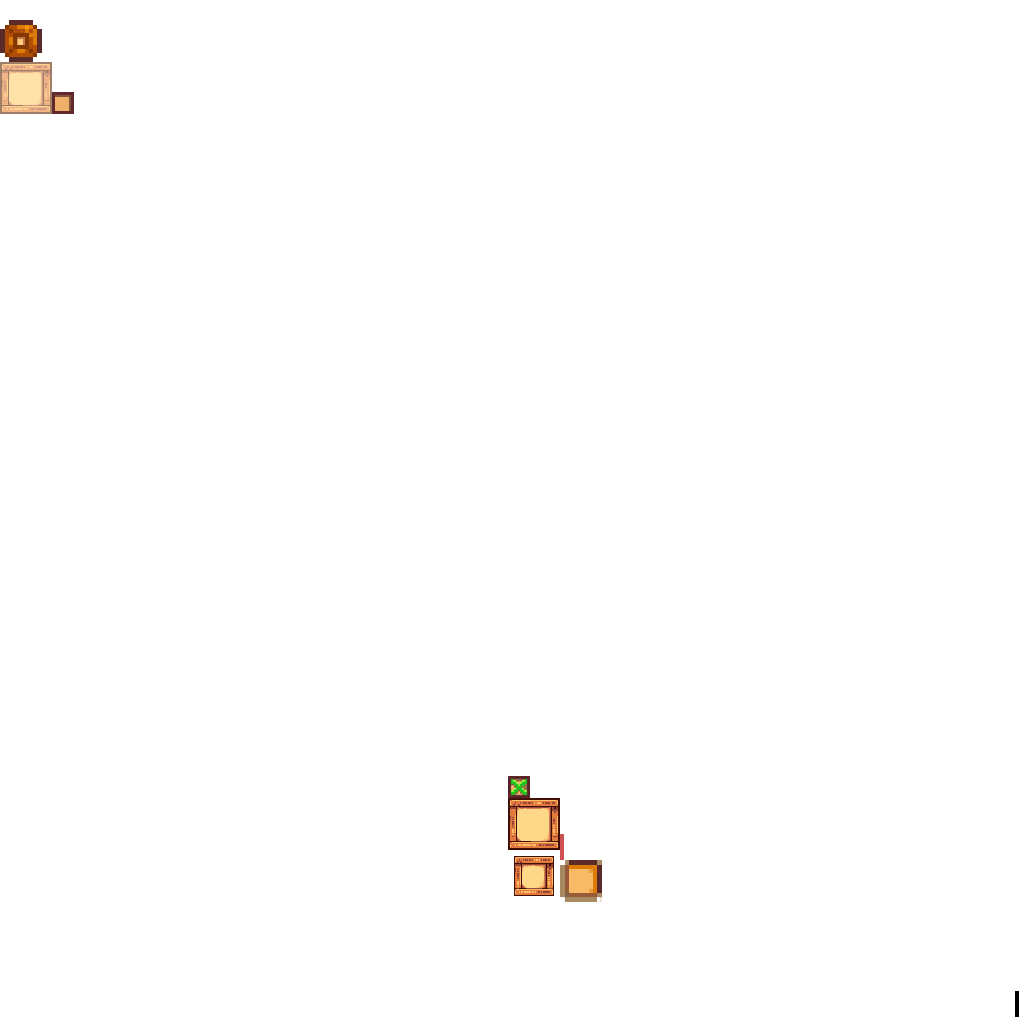
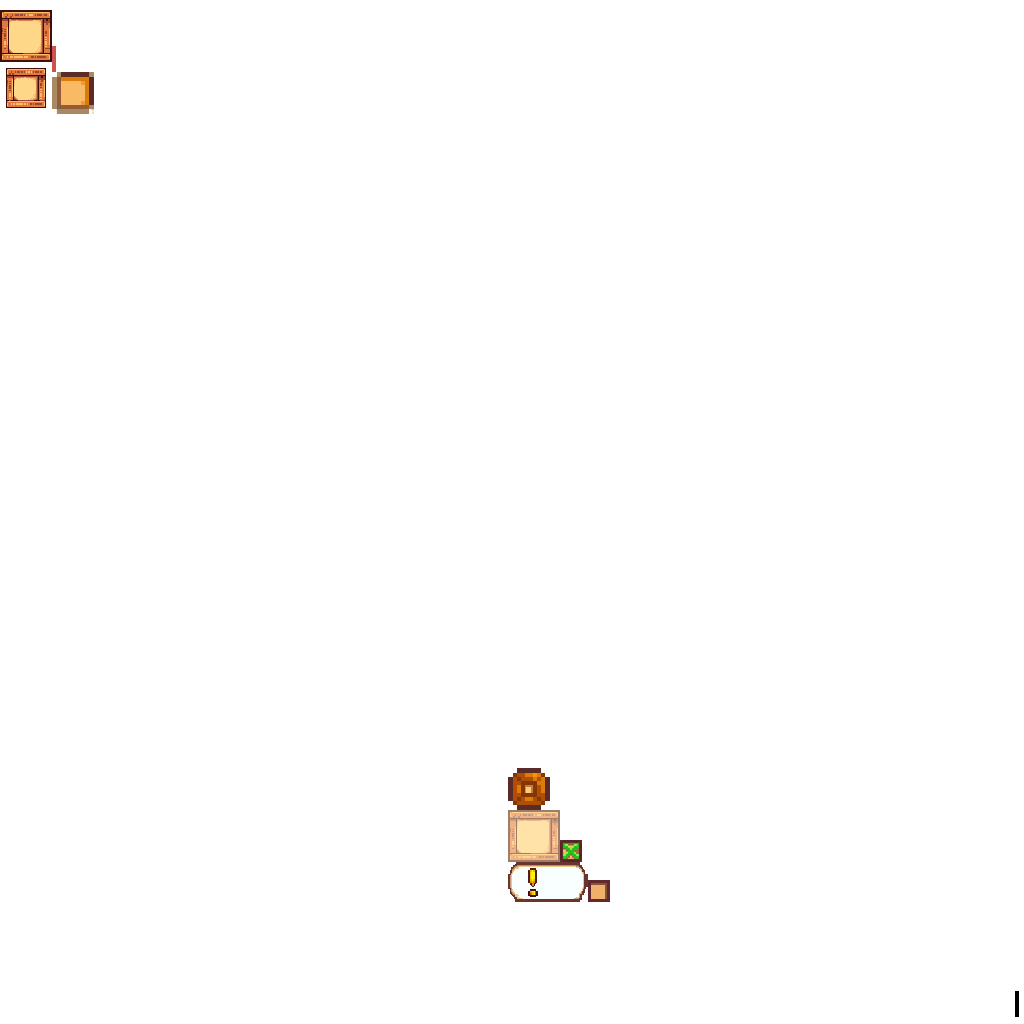
failed to log in

Changed region(s): [[0.4688, 0.75, 0.5938, 0.9062], [0.0, 0.0, 0.0938, 0.125]]

diff --git a/core/src/main/java/io/src/view/LoginMenu.java b/core/src/main/java/io/src/view/LoginMenu.java
@@ -31,16 +31,24 @@ public class LoginMenu implements AppMenu, Screen {
     private final CheckBox stayLoggedInCheckBox;
     private final TextButton exitButton;
     private final Texture background;
+    private final Window window;
+    private final Window registerWindow;
+    private Label warningLabel;
+    private final Skin skin;
+
+    private final int screenWidth;
+    private final int screenHeight;
 
     // init :
 
     public LoginMenu() {
         stage = new Stage();
         Gdx.input.setInputProcessor(stage);
-        Table table = new Table();
-        table.setFillParent(true);
-        table.center();
-        Skin skin = SkinManager.getInstance().getSkin("mainSkin/mainSkin.json");
+        skin = SkinManager.getInstance().getSkin("mainSkin/mainSkin.json");
+
+        int textFieldWidth = 300;
+        screenWidth = Gdx.graphics.getWidth();
+        screenHeight = Gdx.graphics.getHeight();
 
         Label welcomeLabel = new Label("Welcome!", skin, "font-90_PINK");
         Label usernameLabel = new Label("Username:", skin);
@@ -56,10 +64,11 @@ public class LoginMenu implements AppMenu, Screen {
         stayLoggedInCheckBox = new CheckBox(" Stay Logged in", skin);
         exitButton = new TextButton("Exit", skin);
         background = new Texture(Gdx.files.internal("background1.jpg"));
-        Window window = new Window("", skin);
-        window.setSize((float) Gdx.graphics.getWidth() / 2, (float) Gdx.graphics.getHeight() / 2);
-        window.setPosition(((float) Gdx.graphics.getWidth() / 2) - window.getWidth() / 2, ((float) Gdx.graphics.getHeight() / 2) - window.getHeight() / 2);
-        int textFieldWidth = 300;
+        window = new Window("", skin);
+        window.setSize((float) screenWidth / 2, (float) screenHeight / 2);
+        window.setPosition(((float) screenWidth / 2) - window.getWidth() / 2,
+            ((float) screenHeight / 2) - window.getHeight() / 2);
+
         window.add(welcomeLabel);
         window.row();
         window.add(usernameLabel).padTop(15);
@@ -78,7 +87,15 @@ public class LoginMenu implements AppMenu, Screen {
         window.row();
         window.add(exitButton).padTop(10);
 
+        // Register Menu :
+        registerWindow = new Window("", skin);
+        registerWindow.setSize((float) screenWidth / 2, (float) screenHeight / 2);
+        registerWindow.setPosition(((float) screenWidth / 2) - registerWindow.getWidth() / 2,
+            ((float) screenHeight / 2) - registerWindow.getHeight() / 2);
+        registerWindow.setVisible(false);
+
         stage.addActor(window);
+        stage.addActor(registerWindow);
     }
 
     @Override
@@ -108,6 +125,23 @@ public class LoginMenu implements AppMenu, Screen {
 
     // getter
 
+    public int getScreenWidth() {
+        return screenWidth;
+    }
+
+    public int getScreenHeight() {
+        return screenHeight;
+    }
+
+    public Window getRegisterWindow() {
+        return registerWindow;
+
+    }
+
+    public Window getWindow() {
+        return window;
+    }
+
     public TextButton getLoginButton() {
         return loginButton;
     }
@@ -133,6 +167,20 @@ public class LoginMenu implements AppMenu, Screen {
     }
 
     //
+
+    public void showWarningLabel(String message) {
+        if (warningLabel != null) {
+            warningLabel.remove();
+        }
+
+        warningLabel = new Label(" " + message, skin, "default-GREEN_warning");
+        warningLabel.setPosition(
+            ((float) screenWidth / 2) - (warningLabel.getWidth() / 2),
+            ((float) screenHeight / 4) - (warningLabel.getHeight() * 2)
+        );
+        stage.addActor(warningLabel);
+    }
+
 
     @Override
     public void pause() {
@@ -170,9 +218,9 @@ public class LoginMenu implements AppMenu, Screen {
             String menu = matcher.group(1).trim();
             System.out.println(LoginMenuController.goToMenu(menu));
         } else if ((matcher = LoginMenuCommands.loginWithStayLoggedin.getMatcher(input)).find()) {
-            System.out.println(LoginMenuController.manageLoginUser(matcher, true));
+            System.out.println(LoginMenuController.manageLoginUser(matcher.group(1), matcher.group(2), true));
         } else if ((matcher = LoginMenuCommands.login.getMatcher(input)).find()) {
-            System.out.println(LoginMenuController.manageLoginUser(matcher, false));
+            System.out.println(LoginMenuController.manageLoginUser(matcher.group(1), matcher.group(2), false));
         } else if ((matcher = LoginMenuCommands.forgetPassword.getMatcher(input)).find()) {
             System.out.println(LoginMenuController.manageForgotPassword(matcher));
             if (LoginMenuController.manageForgotPassword(matcher).isSuccess()) {

diff --git a/core/src/main/java/io/src/controller/MenuController/LoginMenuController.java b/core/src/main/java/io/src/controller/MenuController/LoginMenuController.java
@@ -8,12 +8,14 @@ import io.src.StardewValley;
 import io.src.controller.CommandController;
 import io.src.model.App;
 import io.src.model.Enums.InfoRegexes;
+import io.src.model.Enums.Menu;
 import io.src.model.Enums.SecurityQuestion;
 import io.src.model.MakePasswordSHA_256;
 import io.src.model.Result;
 import io.src.model.User;
 import io.src.view.LoginMenu;
 
+import java.io.File;
 import java.io.FileWriter;
 import java.io.IOException;
 import java.io.Writer;
@@ -49,12 +51,29 @@ public class LoginMenuController extends CommandController {
     // UI
 
     private void initialize() {
+
         // login button :
         menu.getLoginButton().addListener(new ClickListener() {
+            @Override
+            public void clicked(InputEvent event, float x, float y) {
+                Result result = manageLoginUser(
+                    menu.getUsernameField().getText(),
+                    menu.getPasswordField().getText(),
+                    menu.getStayLoggedInCheckBox().isChecked()
+                );
+
+                if (!result.isSuccess()) {
+                    menu.showWarningLabel(result.getMessage());
+                }
+            }
         });
 
         // Register button :
         menu.getRegisterButton().addListener(new ClickListener() {
+            public void clicked(InputEvent event, float x, float y) {
+                menu.getWindow().setVisible(false);
+                menu.getRegisterWindow().setVisible(true);
+            }
         });
 
         menu.getExitButton().addListener(new ClickListener() {
@@ -155,9 +174,9 @@ public class LoginMenuController extends CommandController {
         return tmpPassword.toString();
     }
 
-    public static Result manageLoginUser(Matcher matcher, boolean stayLoggedIn) {
-        String username = matcher.group(1).trim();
-        String password = matcher.group(2);
+    public static Result manageLoginUser(String username, String password, boolean stayLoggedIn) {
+        username = username.trim();
+        password = password.trim();
 
         User user = returnUser(username);
         if (user == null) {
@@ -165,17 +184,18 @@ public class LoginMenuController extends CommandController {
         }
 
         String hashedInputPassword = MakePasswordSHA_256.hashPassword(password, user.getSalt());
+
         if (!user.getPassword().equals(hashedInputPassword)) return new Result(false, "incorrect password");
 
         if (stayLoggedIn) {
             Gson gson = new Gson();
             try (Writer writer = new FileWriter("assets\\StayLoggedIn.json")) {
                 gson.toJson(user, writer);
-                writer.close();
             } catch (IOException e) {
                 e.printStackTrace();
             }
         }
+
         App.setCurrentUser(user);
         return new Result(true, "you have successfully logged in!");
     }

diff --git a/core/src/main/java/io/src/model/App.java b/core/src/main/java/io/src/model/App.java
@@ -3,20 +3,16 @@ package io.src.model;
 import java.io.*;
 import java.util.ArrayList;
 
-
 import com.google.gson.Gson;
 import com.google.gson.reflect.TypeToken;
 import io.src.model.Enums.Menu;
 
-
 public class App {
-    private static final String FILE_PATH = "assets\\users.json";
+    private static final String FILE_PATH = "assets//users.json";
     //TODO
     private static final ArrayList<User> users = new ArrayList<>();
     private static User currentUser = null;
     private static Menu currentMenu = Menu.loginMenu;
-
-
 
     public static ArrayList<User> getUsers() {
         Gson gson = new Gson();
@@ -75,6 +71,7 @@ public class App {
         }
         return null;
     }
+
     public static Player getMe(){
         return App.getCurrentUser().getCurrentGame().getCurrentPlayer();
     }
